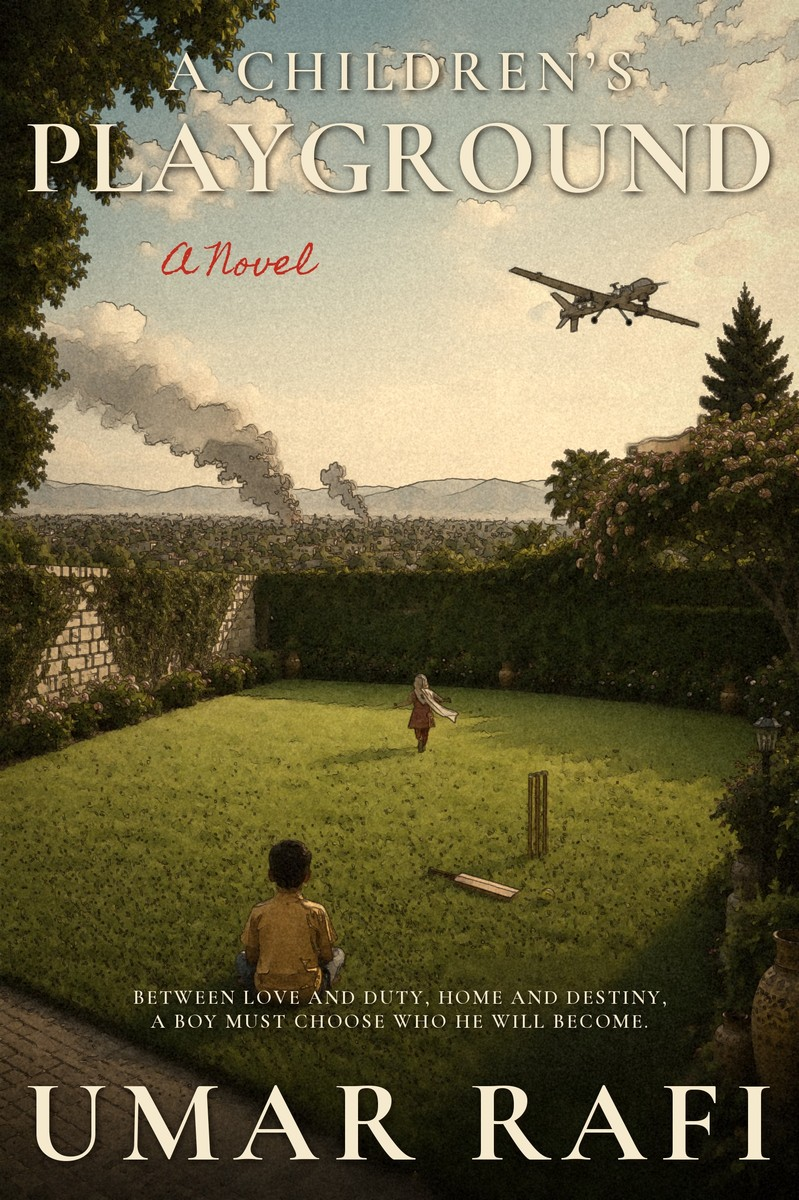
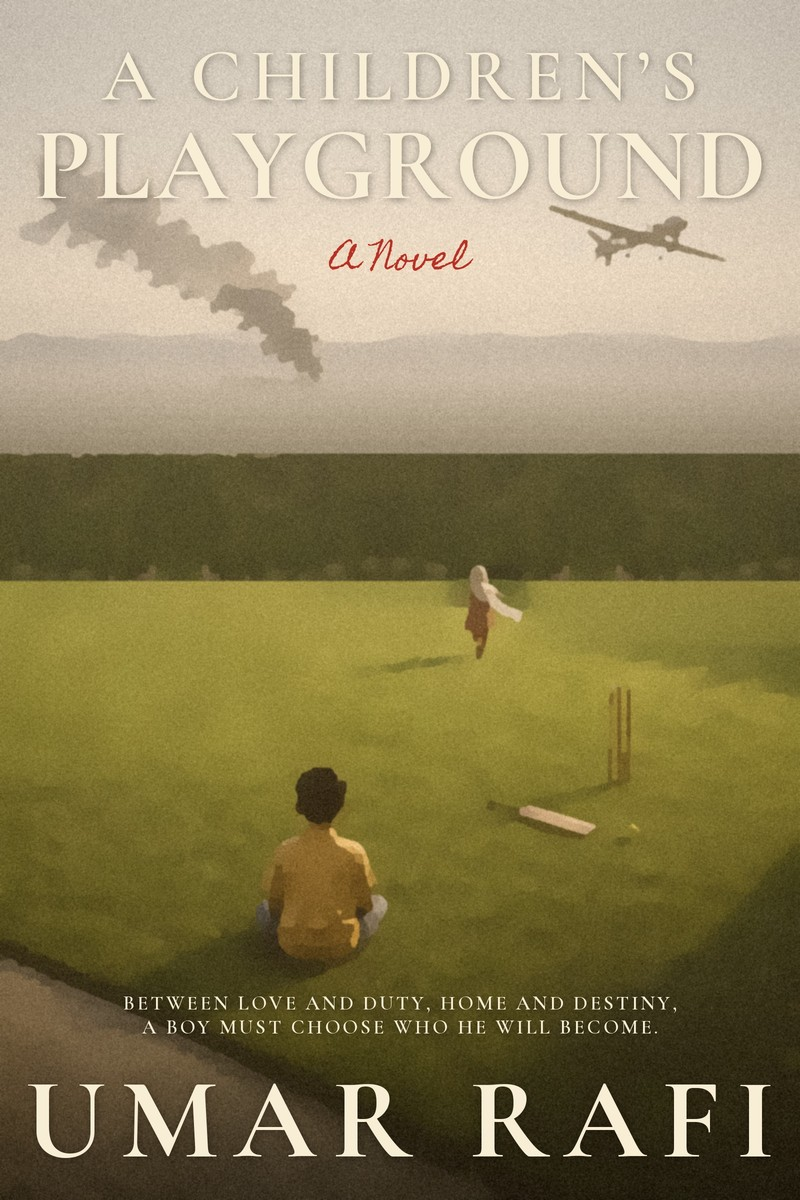
A Children's Playground: simpler faded cover
Claude-Session: https://claude.ai/code/session_01NJvoN1pUMfYqd9199F7f1B

diff --git a/books.html b/books.html
@@ -139,7 +139,7 @@ html body.books-layout .book-gallery-card .book-description-button{margin-top:au
 
 
 
-<main class="books-page books-gallery-page"><header class="books-page-heading"><a class="identity-return" href="index.html#home-roles">← Back to Home</a><p class="identity-context">Author</p><h1>Stories and ideas.</h1><div class="about-rule"></div><p class="books-lead">Three books. Three worlds.</p></header><div class="book-gallery"><article class="book-gallery-card"><button class="book-graphic-button" type="button" data-book="a-childrens-playground" aria-controls="description-a-childrens-playground" aria-expanded="false" aria-haspopup="dialog" aria-label="Read about A Children’s Playground"><img src="images/books/a-childrens-playground-mockup.webp?v=painted" alt="A Children’s Playground book mockup" width="1024" height="1536"></button><p class="meta">LITERARY FICTION · SUMMER 2027</p><h2>A Children’s Playground</h2><button class="book-description-button" type="button" data-book="a-childrens-playground" aria-controls="description-a-childrens-playground" aria-expanded="false" aria-haspopup="dialog">About the book</button></article><article class="book-gallery-card"><button class="book-graphic-button" type="button" data-book="banking-3" aria-controls="description-banking-3" aria-expanded="false" aria-haspopup="dialog" aria-label="Read about Banking 3.0"><img src="images/books/banking-3-mockup.webp" alt="Banking 3.0 book mockup" width="1042" height="1510"></button><p class="meta">TECHNOLOGY · DECEMBER 2026</p><h2>Banking 3.0</h2><button class="book-description-button" type="button" data-book="banking-3" aria-controls="description-banking-3" aria-expanded="false" aria-haspopup="dialog">About the book</button></article><article class="book-gallery-card"><button class="book-graphic-button" type="button" data-book="antifragility" aria-controls="description-antifragility" aria-expanded="false" aria-haspopup="dialog" aria-label="Read about Antifragility of Islamic Finance"><img src="images/books/antifragility-mockup.webp" alt="Antifragility of Islamic Finance book mockup" width="1024" height="1536"></button><p class="meta">FINANCE · PUBLISHED 2018</p><h2>Antifragility of Islamic Finance</h2><button class="book-description-button" type="button" data-book="antifragility" aria-controls="description-antifragility" aria-expanded="false" aria-haspopup="dialog">About the book</button></article></div><dialog class="book-dialog" id="book-dialog" aria-label="About the book"><button type="button" class="book-dialog-close" aria-label="Close book description">×</button><section id="description-a-childrens-playground" class="book-gallery-description" aria-labelledby="a-childrens-playground-dialog-title" hidden><img class="book-dialog-cover" src="images/books/a-childrens-playground-mockup.webp?v=painted" alt="" width="240" height="360"><div class="book-dialog-copy"><p class="meta">Forthcoming · Summer 2027</p><h2 id="a-childrens-playground-dialog-title"><a class="book-title-link" href="https://book-dev.achildrensplayground.pages.dev/">A Children’s Playground</a></h2><p>A Children’s Playground is a coming-of-age novel set against the backdrop of the Global War on Terror, exploring how love, loss, duty, and war shape the moral journey of one young man. Spanning continents, cultures, and religions in an alternate contemporary setting, it examines the timeless themes of class, family, faith, identity, and fate, asking what it truly means to become the person one is destined to be.</p><a class="text-link book-dialog-more" href="https://book-dev.achildrensplayground.pages.dev/">Read more about the book <span aria-hidden="true">→</span></a></div></section><section id="description-banking-3" class="book-gallery-description" aria-labelledby="banking-3-dialog-title" hidden><img class="book-dialog-cover" src="images/books/banking-3-mockup.webp" alt="" width="240" height="360"><div class="book-dialog-copy"><p class="meta">Forthcoming · December 2026</p><h2 id="banking-3-dialog-title"><a class="book-title-link" href="https://www.banking3.com/">Banking 3.0</a></h2><p>Banking has always been built on trust. For most of its history, that trust lived in people, and in the rules and systems built to remember what happened and to hold it true. Artificial intelligence introduces something different: software that can increasingly interpret, reason, decide, and act.</p><a class="text-link book-dialog-more" href="https://www.banking3.com/">Read more about the book <span aria-hidden="true">→</span></a></div></section><section id="description-antifragility" class="book-gallery-description" aria-labelledby="antifragility-dialog-title" hidden><img class="book-dialog-cover" src="images/books/antifragility-mockup.webp" alt="" width="240" height="360"><div class="book-dialog-copy"><p class="meta">Published · 2018</p><h2 id="antifragility-dialog-title"><a href="antifragility.html">Antifragility of Islamic Finance</a></h2><p><em>Antifragility of Islamic Finance: The Risk-Sharing Alternative</em> explains how risk-sharing, as defined under Islamic finance, makes financial systems antifragile. It highlights the benefits of 100% equity-based finance over debt-based finance.</p><a class="text-link book-dialog-more" href="antifragility.html">Read more about the book <span aria-hidden="true">→</span></a></div></section></dialog></main><footer id="contact" class="book-landing-footer"><div><a class="wordmark author-wordmark" href="index.html" aria-label="Umar Rafi home"><svg class="ur-logo" viewBox="0 0 72 74" aria-hidden="true" fill="none"><path d="M9 9v34c0 15 8 23 20 23s20-8 20-23V9" /><path d="M29 66V9h14c15 0 22 8 22 18S58 44 43 44H29m13 0 24 23" /></svg><span class="author-name">UMAR RAFI</span></a></div><p class="footer-meta"><a class="footer-blog-link" href="blog.html">Blog</a><span class="footer-sep" aria-hidden="true">·</span>© <span id="year">2026</span> Umar Rafi</p></footer>
+<main class="books-page books-gallery-page"><header class="books-page-heading"><a class="identity-return" href="index.html#home-roles">← Back to Home</a><p class="identity-context">Author</p><h1>Stories and ideas.</h1><div class="about-rule"></div><p class="books-lead">Three books. Three worlds.</p></header><div class="book-gallery"><article class="book-gallery-card"><button class="book-graphic-button" type="button" data-book="a-childrens-playground" aria-controls="description-a-childrens-playground" aria-expanded="false" aria-haspopup="dialog" aria-label="Read about A Children’s Playground"><img src="images/books/a-childrens-playground-mockup.webp?v=simple" alt="A Children’s Playground book mockup" width="1024" height="1536"></button><p class="meta">LITERARY FICTION · SUMMER 2027</p><h2>A Children’s Playground</h2><button class="book-description-button" type="button" data-book="a-childrens-playground" aria-controls="description-a-childrens-playground" aria-expanded="false" aria-haspopup="dialog">About the book</button></article><article class="book-gallery-card"><button class="book-graphic-button" type="button" data-book="banking-3" aria-controls="description-banking-3" aria-expanded="false" aria-haspopup="dialog" aria-label="Read about Banking 3.0"><img src="images/books/banking-3-mockup.webp" alt="Banking 3.0 book mockup" width="1042" height="1510"></button><p class="meta">TECHNOLOGY · DECEMBER 2026</p><h2>Banking 3.0</h2><button class="book-description-button" type="button" data-book="banking-3" aria-controls="description-banking-3" aria-expanded="false" aria-haspopup="dialog">About the book</button></article><article class="book-gallery-card"><button class="book-graphic-button" type="button" data-book="antifragility" aria-controls="description-antifragility" aria-expanded="false" aria-haspopup="dialog" aria-label="Read about Antifragility of Islamic Finance"><img src="images/books/antifragility-mockup.webp" alt="Antifragility of Islamic Finance book mockup" width="1024" height="1536"></button><p class="meta">FINANCE · PUBLISHED 2018</p><h2>Antifragility of Islamic Finance</h2><button class="book-description-button" type="button" data-book="antifragility" aria-controls="description-antifragility" aria-expanded="false" aria-haspopup="dialog">About the book</button></article></div><dialog class="book-dialog" id="book-dialog" aria-label="About the book"><button type="button" class="book-dialog-close" aria-label="Close book description">×</button><section id="description-a-childrens-playground" class="book-gallery-description" aria-labelledby="a-childrens-playground-dialog-title" hidden><img class="book-dialog-cover" src="images/books/a-childrens-playground-mockup.webp?v=simple" alt="" width="240" height="360"><div class="book-dialog-copy"><p class="meta">Forthcoming · Summer 2027</p><h2 id="a-childrens-playground-dialog-title"><a class="book-title-link" href="https://book-dev.achildrensplayground.pages.dev/">A Children’s Playground</a></h2><p>A Children’s Playground is a coming-of-age novel set against the backdrop of the Global War on Terror, exploring how love, loss, duty, and war shape the moral journey of one young man. Spanning continents, cultures, and religions in an alternate contemporary setting, it examines the timeless themes of class, family, faith, identity, and fate, asking what it truly means to become the person one is destined to be.</p><a class="text-link book-dialog-more" href="https://book-dev.achildrensplayground.pages.dev/">Read more about the book <span aria-hidden="true">→</span></a></div></section><section id="description-banking-3" class="book-gallery-description" aria-labelledby="banking-3-dialog-title" hidden><img class="book-dialog-cover" src="images/books/banking-3-mockup.webp" alt="" width="240" height="360"><div class="book-dialog-copy"><p class="meta">Forthcoming · December 2026</p><h2 id="banking-3-dialog-title"><a class="book-title-link" href="https://www.banking3.com/">Banking 3.0</a></h2><p>Banking has always been built on trust. For most of its history, that trust lived in people, and in the rules and systems built to remember what happened and to hold it true. Artificial intelligence introduces something different: software that can increasingly interpret, reason, decide, and act.</p><a class="text-link book-dialog-more" href="https://www.banking3.com/">Read more about the book <span aria-hidden="true">→</span></a></div></section><section id="description-antifragility" class="book-gallery-description" aria-labelledby="antifragility-dialog-title" hidden><img class="book-dialog-cover" src="images/books/antifragility-mockup.webp" alt="" width="240" height="360"><div class="book-dialog-copy"><p class="meta">Published · 2018</p><h2 id="antifragility-dialog-title"><a href="antifragility.html">Antifragility of Islamic Finance</a></h2><p><em>Antifragility of Islamic Finance: The Risk-Sharing Alternative</em> explains how risk-sharing, as defined under Islamic finance, makes financial systems antifragile. It highlights the benefits of 100% equity-based finance over debt-based finance.</p><a class="text-link book-dialog-more" href="antifragility.html">Read more about the book <span aria-hidden="true">→</span></a></div></section></dialog></main><footer id="contact" class="book-landing-footer"><div><a class="wordmark author-wordmark" href="index.html" aria-label="Umar Rafi home"><svg class="ur-logo" viewBox="0 0 72 74" aria-hidden="true" fill="none"><path d="M9 9v34c0 15 8 23 20 23s20-8 20-23V9" /><path d="M29 66V9h14c15 0 22 8 22 18S58 44 43 44H29m13 0 24 23" /></svg><span class="author-name">UMAR RAFI</span></a></div><p class="footer-meta"><a class="footer-blog-link" href="blog.html">Blog</a><span class="footer-sep" aria-hidden="true">·</span>© <span id="year">2026</span> Umar Rafi</p></footer>
 <script src="script.js?v=mobile-entrance-fix-96"></script>
 <script>
 (()=>{

diff --git a/index.html b/index.html
@@ -327,7 +327,7 @@ html.athens-fade.athens-in .art-hero>img,html.athens-fade.athens-in .athens-over
 <script id="athens-fade-js">(function(){var r=document.documentElement;if(!r.classList.contains('athens-fade'))return;var img=document.querySelector('.art-hero>img'),done=false;
 function show(){if(done)return;done=true;requestAnimationFrame(function(){r.classList.add('athens-in')})}
 if(!img||img.complete)show();else{img.addEventListener('load',show);img.addEventListener('error',show)}setTimeout(show,3000)})();</script>
-<section class="home-featured-book" aria-labelledby="featured-novel-title"><button class="painting-peek-toggle athens-game-open" type="button" aria-haspopup="dialog" aria-controls="athens-game">Explore the painting ↓</button><a class="featured-cover" href="https://book-dev.achildrensplayground.pages.dev/"><img src="images/books/a-childrens-playground-mockup.webp?v=painted" alt="A Children’s Playground book" width="1024" height="1536" loading="lazy"></a><div><h2 id="featured-novel-title"><a href="https://book-dev.achildrensplayground.pages.dev/">A Children’s Playground</a><span class="featured-inline-date"> · Coming Summer 2027</span></h2><p>Between love and duty, home and destiny, a boy must choose who he will become.</p></div><button type="button" class="notify-open featured-notify" data-notify="acp">Be the first to know →</button></section>
+<section class="home-featured-book" aria-labelledby="featured-novel-title"><button class="painting-peek-toggle athens-game-open" type="button" aria-haspopup="dialog" aria-controls="athens-game">Explore the painting ↓</button><a class="featured-cover" href="https://book-dev.achildrensplayground.pages.dev/"><img src="images/books/a-childrens-playground-mockup.webp?v=simple" alt="A Children’s Playground book" width="1024" height="1536" loading="lazy"></a><div><h2 id="featured-novel-title"><a href="https://book-dev.achildrensplayground.pages.dev/">A Children’s Playground</a><span class="featured-inline-date"> · Coming Summer 2027</span></h2><p>Between love and duty, home and destiny, a boy must choose who he will become.</p></div><button type="button" class="notify-open featured-notify" data-notify="acp">Be the first to know →</button></section>
 <div class="home-cloud-background"><section class="home-about">
 <div class="home-about-inner">
 <h2 class="profile-heading">A life across worlds.</h2>
